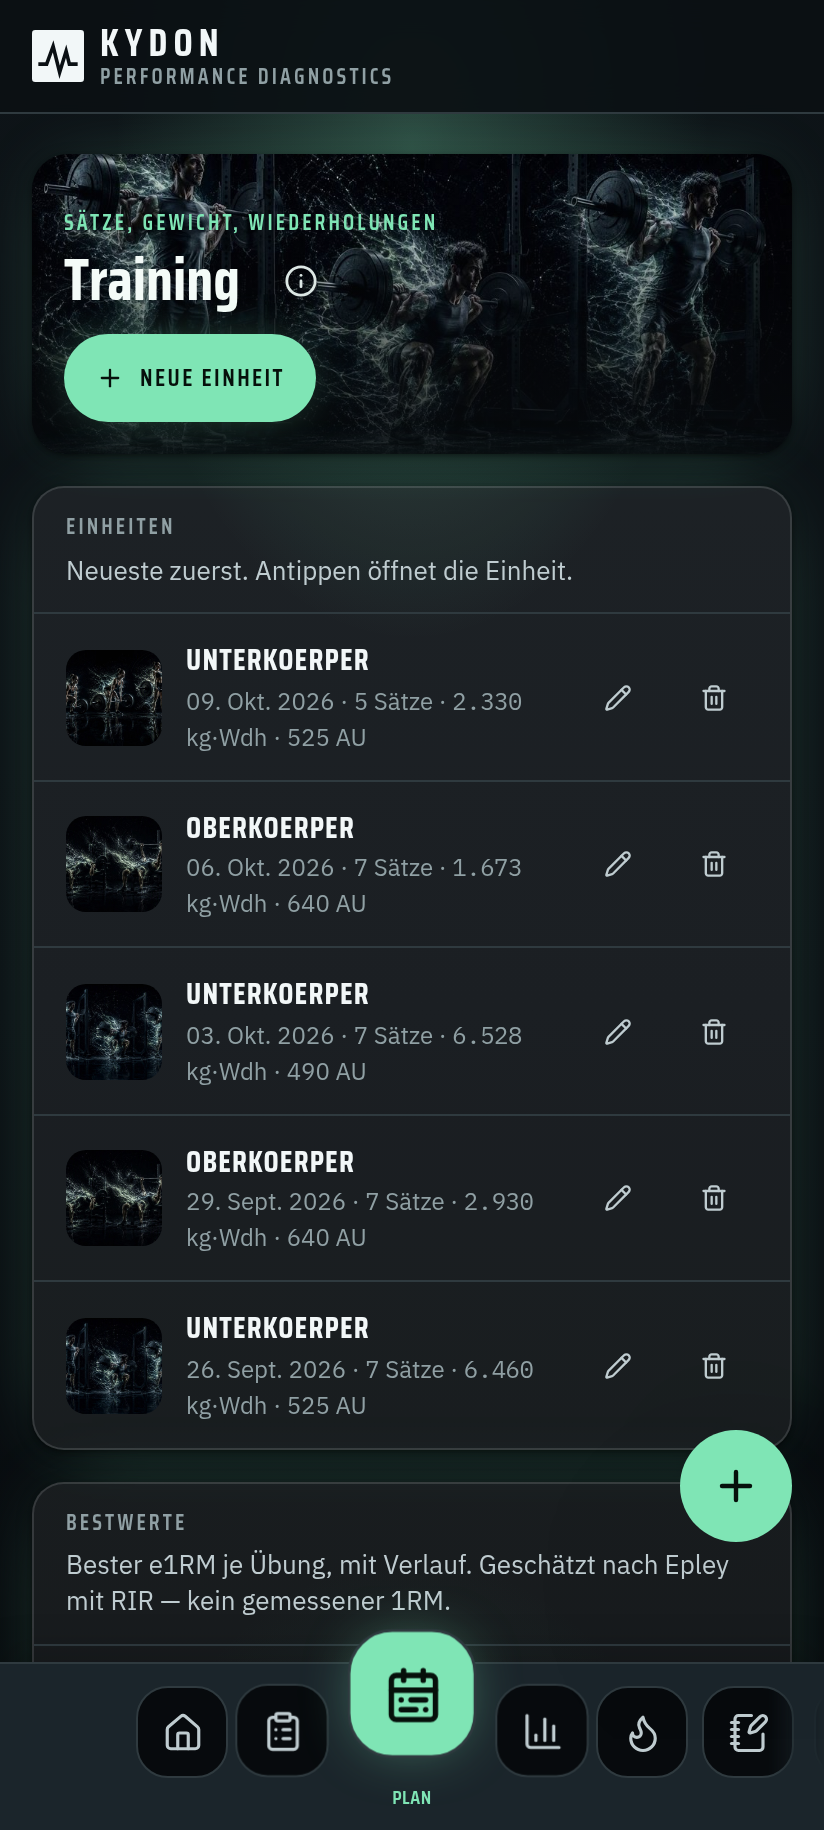
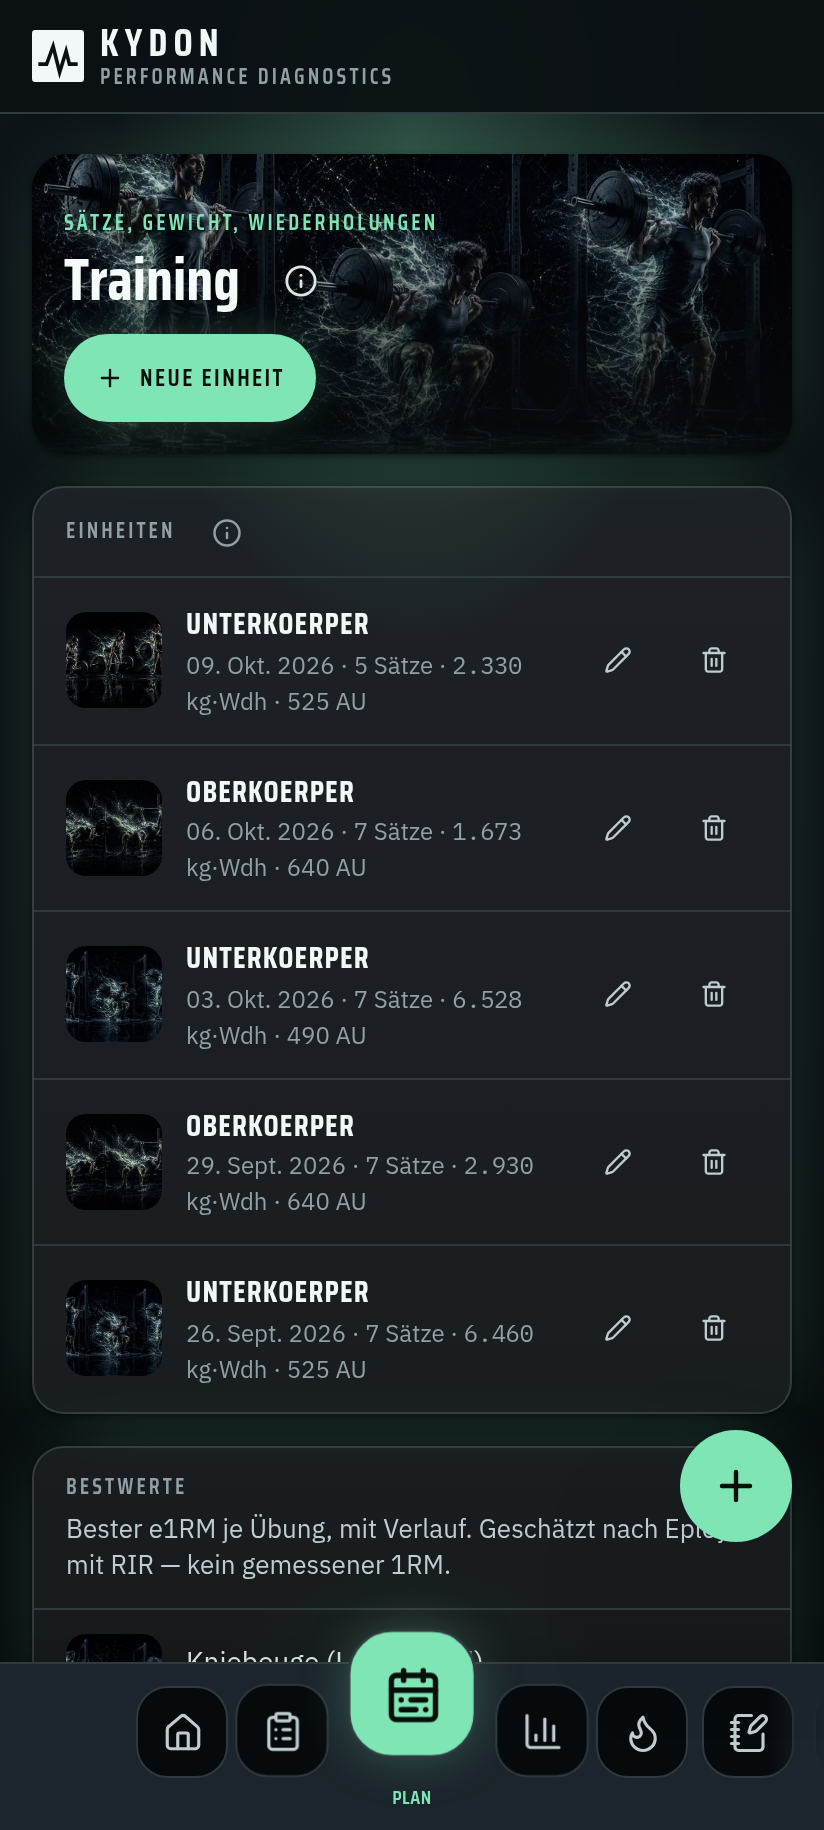
Termine: Anzahl als Kennung statt doppelter «Diagnostik»; Aufnahmen
- Kopf der Terminliste: «3 Termine» über dem Titel statt zweimal
  «Diagnostik»
- Aufnahme mit aufgeklapptem ⓘ, Übersichtsblätter in mockups-neu/uebersicht

Claude-Session: https://claude.ai/code/session_01B8JS5CYAPUiDUfS1QDEwqQ

diff --git a/mockups/bereiche.spec.ts b/mockups/bereiche.spec.ts
@@ -36,5 +36,11 @@ for (const theme of ['light', 'dark'] as const) {
       await page.waitForTimeout(700)
       await page.screenshot({ path: `mockups-neu/bereiche/${file}-${name}.png` })
     }
+    // Eine Erklärung aufgeklappt: das ⓘ am Kartenkopf im Trainingslog.
+    await page.goto('/training', { waitUntil: 'domcontentloaded' })
+    await page.getByTestId('panel-info').first().click()
+    await page.evaluate((t) => document.documentElement.setAttribute('data-theme', t), theme)
+    await page.waitForTimeout(500)
+    await page.screenshot({ path: `mockups-neu/bereiche/24-info-offen-${name}.png` })
   })
 }

diff --git a/src/features/assessments/AssessmentListScreen.tsx b/src/features/assessments/AssessmentListScreen.tsx
@@ -32,7 +32,7 @@ export function AssessmentListScreen() {
   return (
     <>
       <ScreenHeader
-        eyebrow={t('diag.eyebrow')}
+        eyebrow={t('assessments.count', { count: assessments.length })}
         title={t('assessments.title')}
         intro={t('assessments.intro')}
         image={AREA_IMAGES.testDay}
